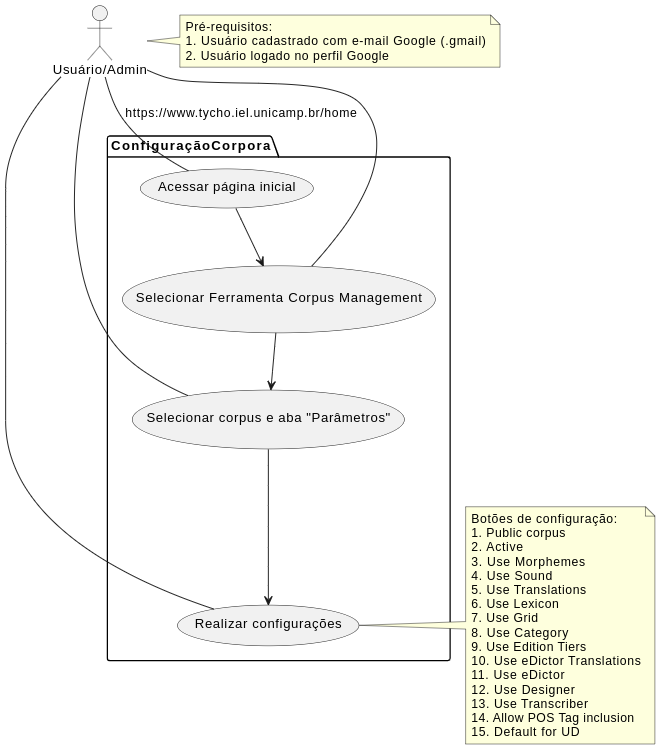
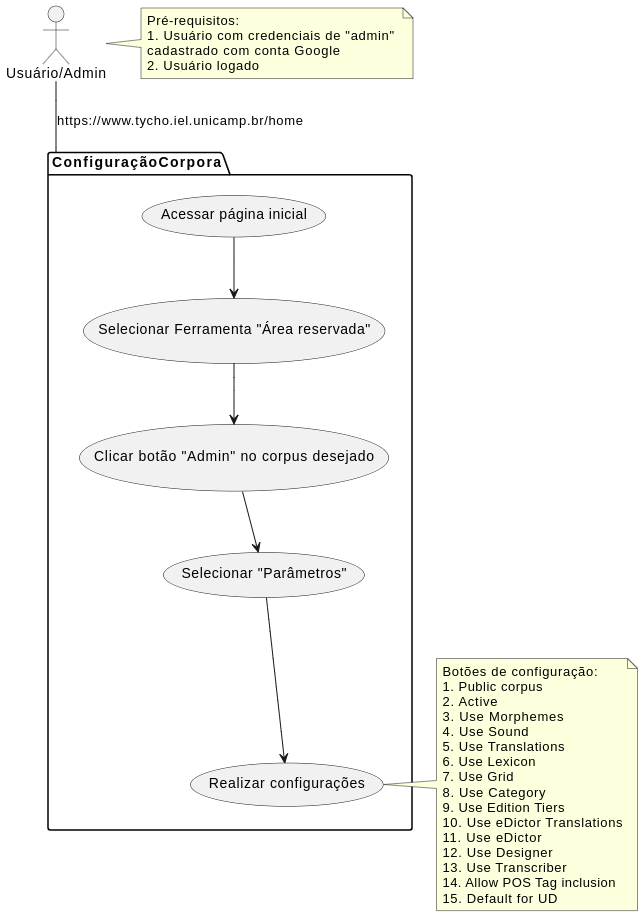
Atualiza 10/10 - Continua correção de fluxo devido à atualização da plataforma

diff --git a/documentacao_md/documentacao.md b/documentacao_md/documentacao.md
@@ -404,8 +404,6 @@ No caso de interesse de participação no projeto, o usuário deve entrar em con
 
 ### Tutorial: Solicitar cadastro na plataforma
 
-**Objetivo:** Este tutorial detalha o processo para solicitar o cadastramento na plataforma. Em um fluxo normal, o usuário entra na página principal da plataforma e preenche o formulário fixado no final da página e aguarda contato dos administradores.
-
 #### **Tutorial: Fluxo normal**
 
 1. Acesse a página inicial da plataforma Tycho Brahe, disponível no link: <https://www.tycho.iel.unicamp.br/home>.
@@ -444,7 +442,7 @@ Nos tópicos a seguir, serão abordados os principais fluxos de trabalho para a 
 
 **Fluxo normal:**
 
-1. Acessar a página inicial de /admin na plataforma Tycho Brahe, através do link: <https://www.tycho.iel.unicamp.br/admin> (e realizar o _log in_).<!--REVISAR CRÍTICO: SÓ CONSIGO CRIAR A PARTIR DO LINK MESMO?-->
+1. Acessar a página inicial de /admin na plataforma Tycho Brahe, através do link: <https://www.tycho.iel.unicamp.br/admin> (e realizar o _log in_).<!--REVISAR CRÍTICO: SÓ CONSIGO CRIAR A PARTIR DO LINK ADMIN MESMO? Ou um usuário normal, por meio da área reservada consegue criar um corpus sem ser adminstrador? consegui criar com o perfil alternativo do google que não é adminstrador, mas não consigo acessar a página de gestão pelo perfil-->
 2. Na janela que se abre uma lista de corpora disponíveis é apresentada. Clicar em _"+ Create new corpus"_.
 3. Adicionar nome ao novo corpus e clicar em "Confirmar": novo corpus criado.
 
@@ -482,6 +480,8 @@ Nos tópicos a seguir, serão abordados os principais fluxos de trabalho para a 
 
 **Atores primários**:
 
+<!--REVISAR CRÍTICO: VERIFICAR SOBRE AS CREDENCIAIS NECESSÁRIAS SE UM USUÁRIO NORMAL, MAS COM ACESSO ADMIN CONSEGUE REALIZAR CONFITURAÇÕES-->
+
 1. Administrador
 2. Usuário (com permissão de admin no corpus)
 
@@ -491,37 +491,67 @@ Nos tópicos a seguir, serão abordados os principais fluxos de trabalho para a 
 
 **Fluxo normal:**
 
-1. Acessar a página inicial da plataforma Tycho Brahe, através do link: https://www.tycho.iel.unicamp.br/home .
-2. Na área "Ferramentas", selecionar a ferramenta _"Corpora Management"_.
-3. Ao acessar o _"Corpora Management"_, uma lista de corpora disponíveis abre. Selecionar o corpus que deseja configurar.
-4. Selecionar a aba **"Parâmetros"**: abre-se uma caixa com botões de alternância para a realização de configurações do corpus.
+1. Acessar a página inicial da plataforma Tycho Brahe, através do link: <https://www.tycho.iel.unicamp.br/home>.
+2. Na área "Ferramentas", selecionar "Área Reservada".
+3. Na página de perfil que se abre, os corpora disponíveis, vinculados ao usuário, são apresentados. O usuário deve selecionar o corpus que deseja configurar e clicar no botão "Admin" na área de "Acesso rápido".
+4. Na janela que se abre, selecionar a aba "Parâmetros": abre-se uma caixa com botões de alternância para a realização de configurações de parâmetros do corpus.
+
+**Fluxo alternativo:**
+
+**A1** - **Acesso direto pelo link de administrador**
+
+1. Acessar o link de administrador: <https://www.tycho.iel.unicamp.br/admin>.
+2. Navegar até o corpus desejado e selecionar (abre página de gestão do corpus).
+3. Retomar a partir do passo 4 do Fluxo normal e realizar as configurações de parâmetros do corpus.
 
 ### Diagrama do Caso de uso 04.2 - Configuração de corpora
 
 <figure>
     <img src="../imagens/caso04_02_diagrama.png"
          alt="Caso de uso 04.02 - Configuração de corpora">
-    <figcaption>Figura 15: Diagrama caso de uso - Configuração de corpora</figcaption>
+    <figcaption>Figura x: Diagrama caso de uso - Configuração de corpora</figcaption>
 </figure>
 
 ### Tutorial: Configuração de corpora
 
-**Objetivo:**: Este tutorial detalha os passos necessários para a configuração dos corpora através da ferramenta _"Corpora management"_
+**Objetivo:**: Este tutorial detalha os passos necessários para a configuração dos corpora.
 
 #### **Tutorial: Fluxo normal**
 
 1. Acesse a página inicial da plataforma Tycho Brahe, através do link: <https://www.tycho.iel.unicamp.br/home> .
 
-2. Na área "Ferramentas", role a página para baixo e selecione a ferramenta _"Corpora Management"_, como apresentado na Figura x:
+2. Navegue até a área "Ferramentas" e selecione "Área Reservada".
 
-3. Ao acessar o _"Corpora Management"_, uma lista de corpora disponíveis abre. Clique no corpus que deseja configurar.
+<figure>    
+    <img src = "../imagens/acesso_area_reservada.png">
+    <figcaption>Figura x: Acessando "Área Reservada"</figcaption>
+</figure>
 
-4. Clique em "Parâmetros": uma caixa com botões de alternância se abre, disponibilizando diversos botões de alternância para configuração dos corpora.
+3. Na página de perfil que se abre, os corpora disponíveis, vinculados ao usuário, são apresentados. Selecione o corpus que deseja configurar e clique no botão "Admin" na área de "Acesso rápido".
+
+<figure>
+<img src = "../imagens/acesso_rapido_admin.png">
+<figcaption>Figura x: Acesso rápido - botão "Admin" </figcaption>
+</figure>
+
+4. Clique em "Parâmetros": uma caixa com botões de alternância se abre, disponibilizando diversos botões de alternância para configuração do corpus.
 
 <figure> 
-    <img src = "../imagens/botoes_configuracao_corpora2.png" alt = "Processo de configuração dos corpora: acessando a área de config">
+    <img src = "../imagens/parametros_corpus.png" alt = "Pârametros corpus">
     <figcaption>Figura x: Acessando área de configuração de corpora </figcaption>
 </figure>
+
+**Tutorial: Fluxo alternativo:**
+
+**A1** - **Acesso direto pelo link de administrador**
+
+1. Acesse o link de administrador: <https://www.tycho.iel.unicamp.br/admin>.
+2. Navegue até o corpus desejado e selecione (isto abre a página de gestão do corpus).
+<figure>
+<img src="../imagens/configura_parametro_FA1.png" >
+<figcaption>Figura x: Acesso configuração de parâmetros - Fluxo alternativo 1</figcaption>
+</figure>
+3. Retomar a partir do passo 4 do Fluxo normal e realizar as configurações de parâmetros do corpus.
 
 A seguir são apresentadas descrições de cada um dos botões de configurações disponíveis.<br><br>
 
@@ -529,7 +559,12 @@ A seguir são apresentadas descrições de cada um dos botões de configuraçõe
 
 **Active**: configura se o corpus está ativo ou inativo;
 
-**Featured Corpus**: [REVISAR: PERGUNTAR AO LUIZ A FUNÇÃO DESTE]. Um corpus marcado com esse parâmetro aparece na página principal do Tycho.
+**Featured Corpus**: Um corpus marcado com esse parâmetro aparece na página principal da plataforma, na área "Corpora em Destaque".
+
+<figure>
+<img src="../imagens/corpora_em_destaque.png" >
+<figcaption>Figura x: Corpora em Destaque</figcaption>
+</figure>
 
 **Use Morphemes**: habilita o uso campos referentes a morfemas, incluindo glossa, nos corpora.
 
@@ -621,18 +656,18 @@ A configuração do eDictor Tranlations também depende de configurações na ab
   - **Order**: aceita números inteiros para configuração da ordem em que as línguas de tradução serão apresentadas;
   - **Symbol**: preencha com o rótulo desejado;
   - **Name**: preencha com o nome desejado;
-  - **Reference**: preencha para adicionar uma referência.[REVISAR: ver videos de gravação da reunião] É um campo opcional pa
+  - **Reference**: preencha para adicionar uma referência.<!--[REVISAR: ver videos de gravação da reunião]-->
 
 <br>
 <figure>
-    <img src = "../imagens/configura_corpus_admin_translations3.png">
+    <img src = "../imagens/configura_corpus_admin_translations3.png"  width=1000>
     <figcaption>Figura x: Configurações de apresentação das traduções no eDictor Translations</figcaption>
 </figure>
 <br>
 Estas configurações habilitam a apresentação dos corpora paralelos como em 2 na Figura x abaixo; Em 3, o usuário pode selecionar qual lingua de tradução deseja que seja apresentada; Em 4, após a seleção de uma sentença, é possível verificar as traduções para a sentença selecionada, além de ser possível realizar edições nas traduções.
 
 <figure>
-    <img src = "../imagens/configura_corpus_admin_translations7.png" width = "600" height = "800">
+    <img src = "../imagens/configura_corpus_admin_translations7.png" >
     <figcaption>Figura x: Resultado configurações de eDictor Translations</figcaption>
 </figure>
 
@@ -941,5 +976,7 @@ end note
 1.  <!--
     DÚVIDAS A TIRAR COM O LUIZ
 
-COMO DELETAR UM CORPUS?
+COMO DELETAR UM CORPUS? AINDA NÃO IMPLEMENTADO
+
+PERGUNTAR PRO LUIZ, DE MANEIRA GERAL, SOBRE AS CREDENCIAIS NECESSÁRIAS PARA REALIZAR ALGUMAS TAREFAS DE GESTÃO DOS CORPORA
 -->
